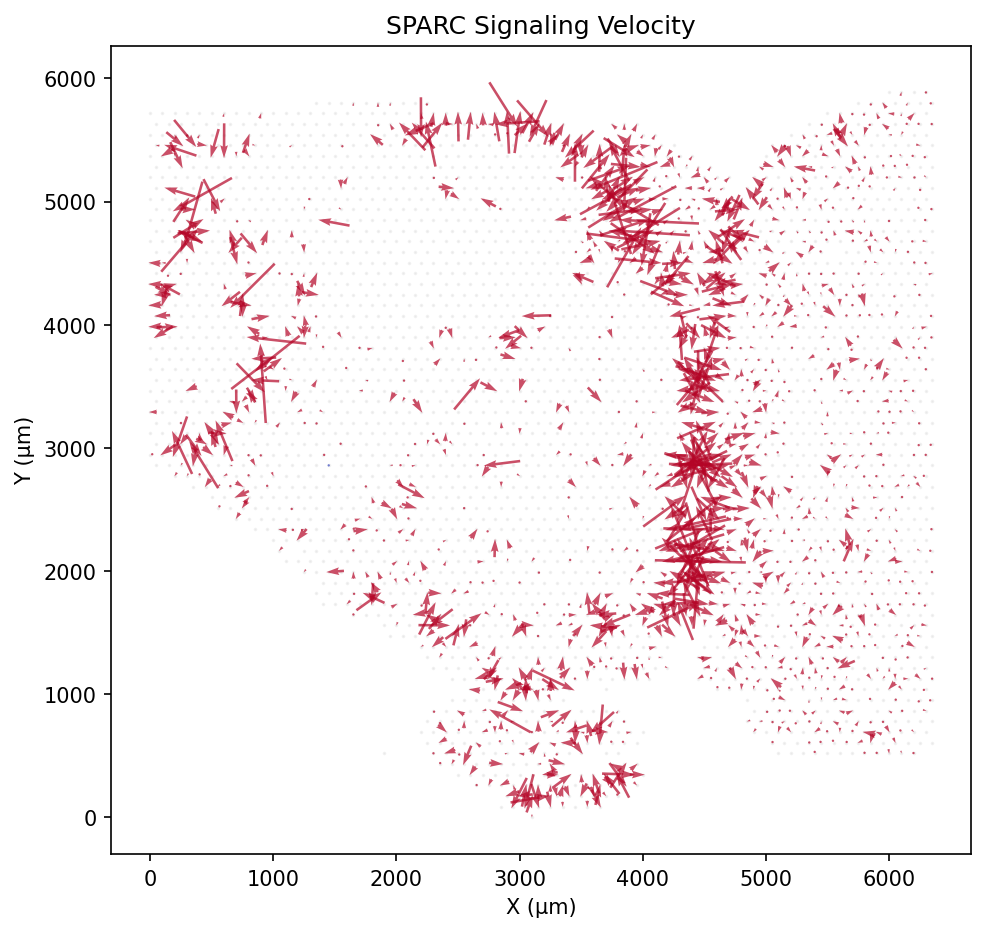
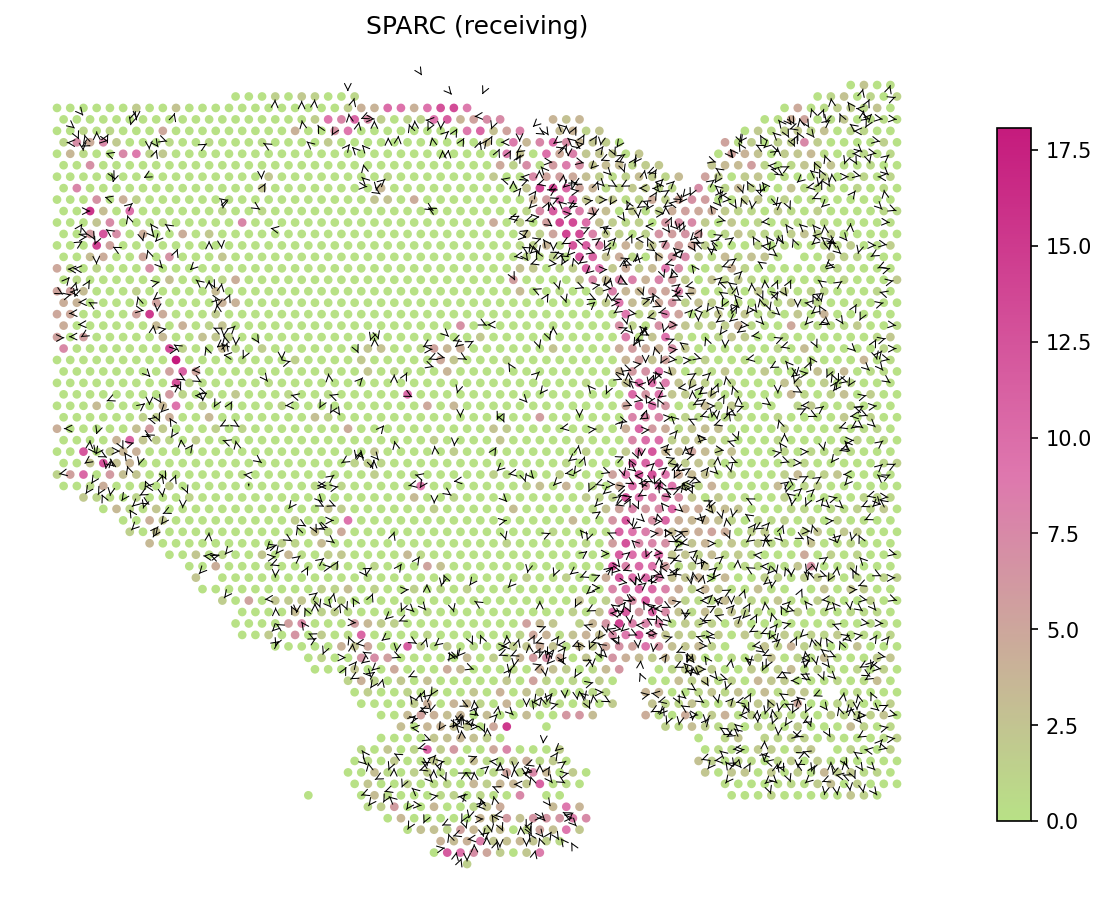
Update stPattern velocity section with contour and animated figures
- Fix code blocks to use correct two-step API (compute + visualize)
- Generate contour map figure (RBF-interpolated streamplot)
- Generate animated GIF (progressive arrow reveal, 30 frames)
- Regenerate spot-level figure for consistency

diff --git a/docs/stPattern.html b/docs/stPattern.html
@@ -449,19 +449,25 @@ ANGPT2  0.000521  0.198432  0.001347                 2</div>
   direction and strength of secreted signaling. Let's take SPARC as an example.
 </p>
 
-<pre>spacet.<span class="fn">secact_signaling_velocity</span>(adata, gene<span class="op">=</span><span class="st">"SPARC"</span>, contour_map<span class="op">=</span><span class="kw">True</span>)</pre>
+<pre><span class="cm"># Compute signaling velocity for SPARC</span>
+velocity <span class="op">=</span> spacet.<span class="fn">secact_signaling_velocity</span>(adata, gene<span class="op">=</span><span class="st">"SPARC"</span>)
+
+<span class="cm"># Show SPARC signaling velocity as contour map</span>
+spacet.<span class="fn">visualize_secact_velocity</span>(adata, gene<span class="op">=</span><span class="st">"SPARC"</span>, contour_map<span class="op">=</span><span class="kw">True</span>)</pre>
 
 <div class="figure">
   <img src="figures/hcc_velocity_contour.png" alt="SPARC signaling velocity contour map">
 </div>
 
-<pre>spacet.<span class="fn">secact_signaling_velocity</span>(adata, gene<span class="op">=</span><span class="st">"SPARC"</span>, contour_map<span class="op">=</span><span class="kw">False</span>)</pre>
+<pre><span class="cm"># Show SPARC signaling velocity at spot level</span>
+spacet.<span class="fn">visualize_secact_velocity</span>(adata, gene<span class="op">=</span><span class="st">"SPARC"</span>, contour_map<span class="op">=</span><span class="kw">False</span>)</pre>
 
 <div class="figure">
   <img src="figures/hcc_velocity.png" alt="SPARC signaling velocity spot level">
 </div>
 
-<pre>anim <span class="op">=</span> spacet.<span class="fn">secact_signaling_velocity</span>(adata, gene<span class="op">=</span><span class="st">"SPARC"</span>, animated<span class="op">=</span><span class="kw">True</span>)
+<pre><span class="cm"># Show animated SPARC signaling velocity</span>
+anim <span class="op">=</span> spacet.<span class="fn">visualize_secact_velocity</span>(adata, gene<span class="op">=</span><span class="st">"SPARC"</span>, animated<span class="op">=</span><span class="kw">True</span>)
 
 <span class="cm"># anim.save("my_animation.gif", writer="pillow")</span></pre>
 
